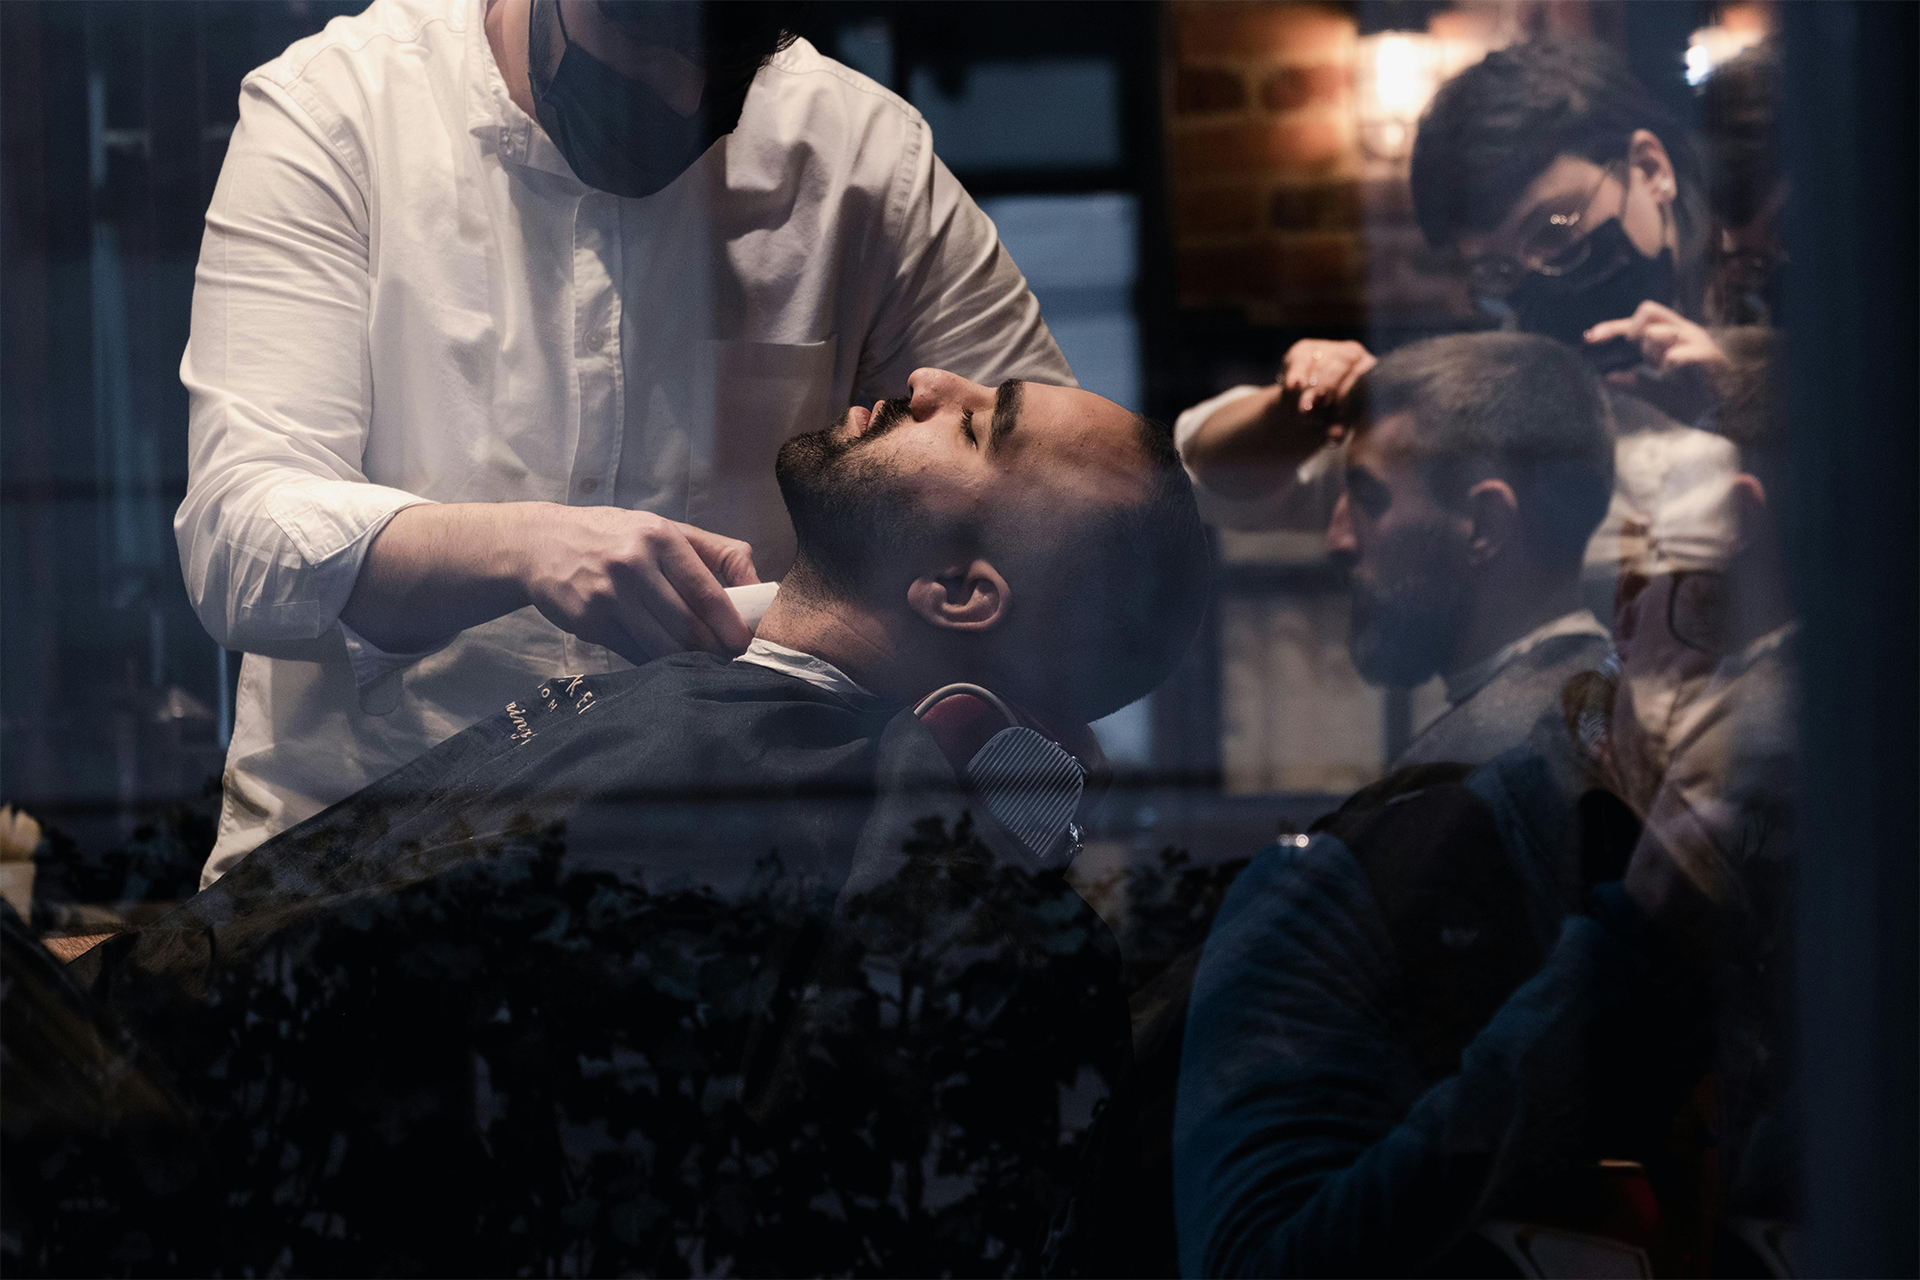
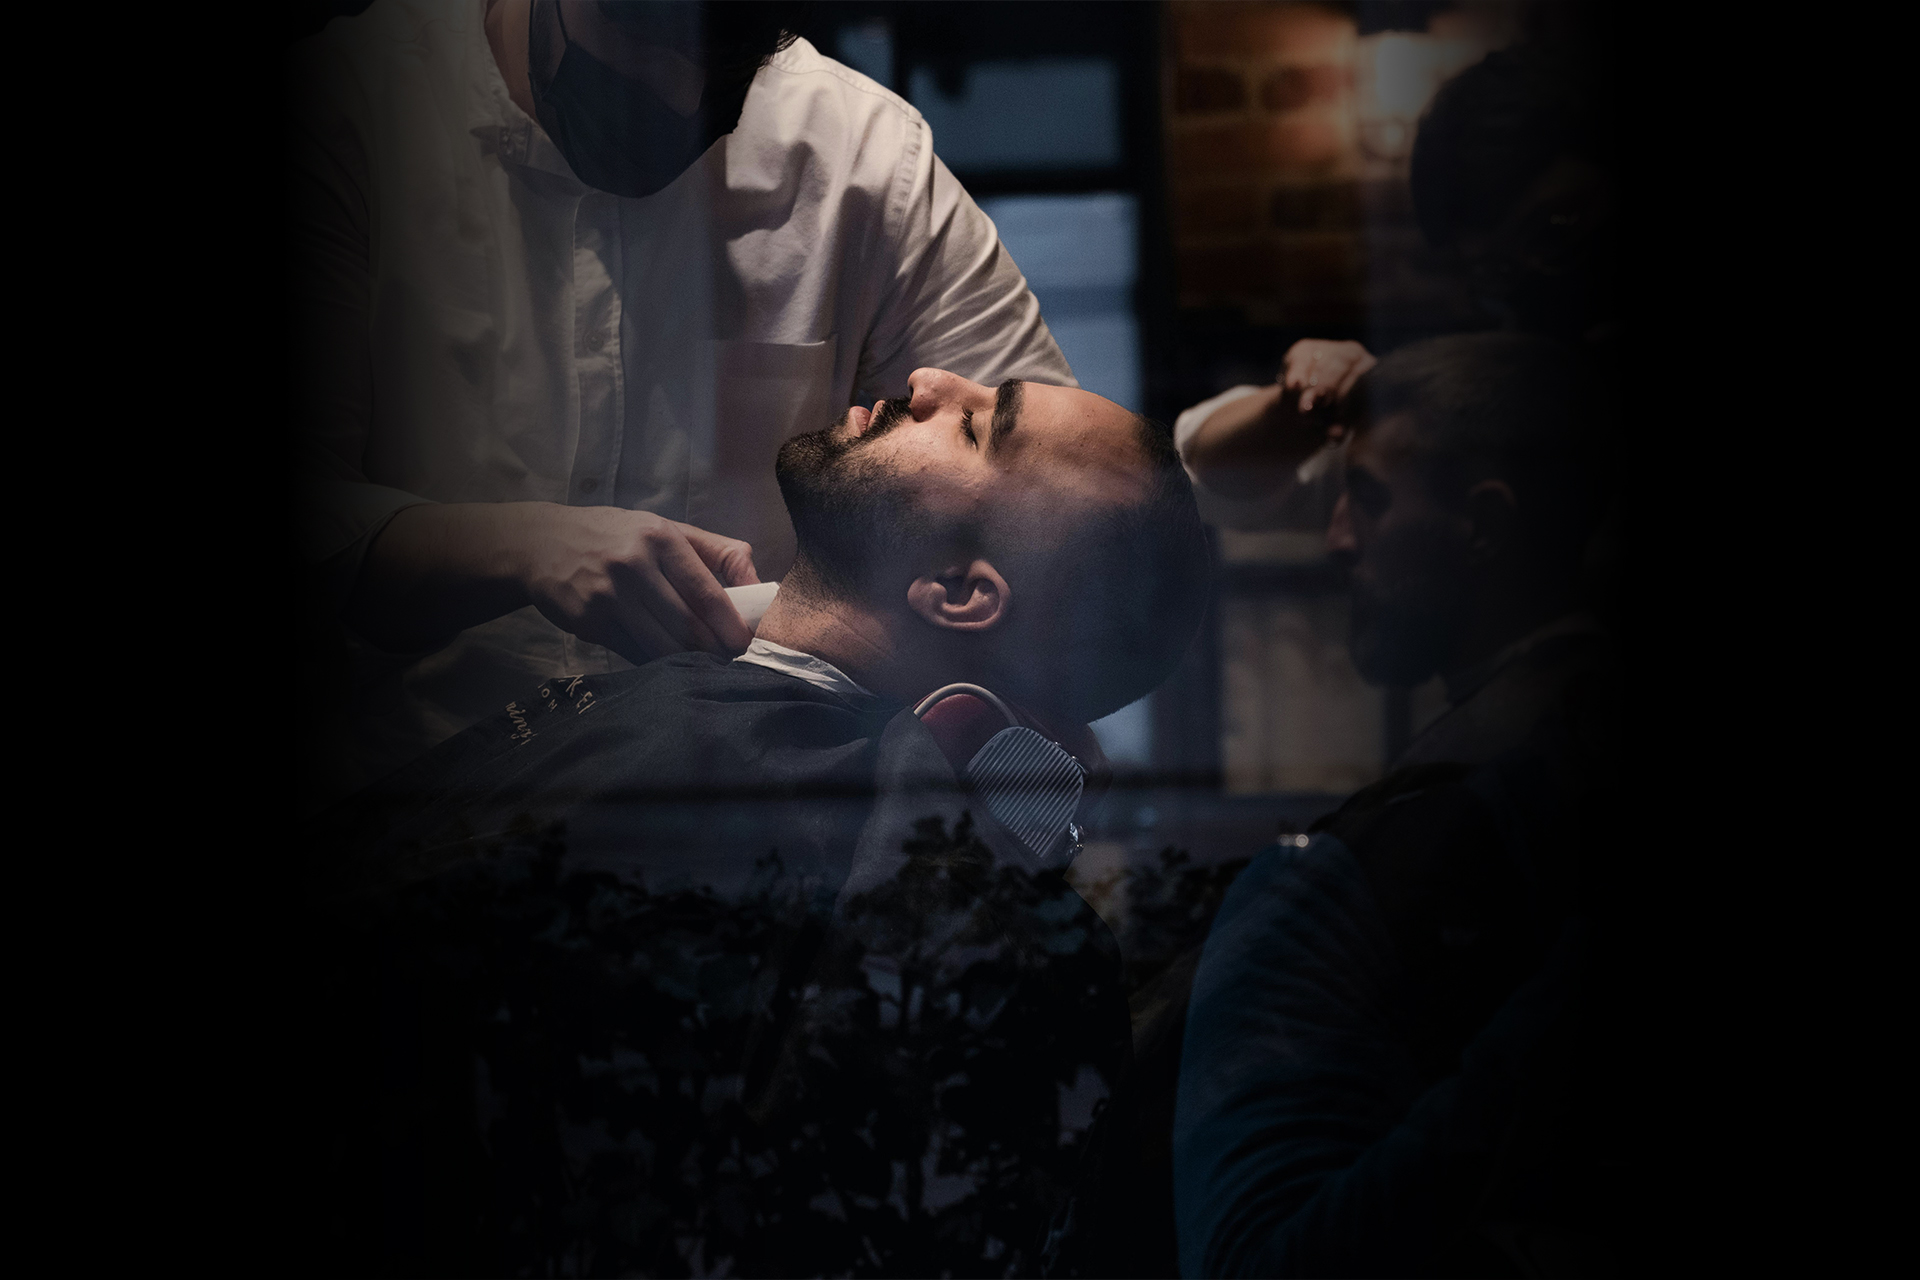
finalizando apresentação

diff --git a/index.html b/index.html
@@ -29,7 +29,44 @@
     <div class="wrapper">
         <main>
             <section id="car-wash" class="module parallax parallax-1">
-                <h1 class="title-1">Car Wash</h1>
+
+                <div>
+                    <form action="">
+                        <h3>Agendar</h3>
+                        <input type="text" placeholder="Nome">
+                        <input type="text" placeholder="Carro">
+                        <label>
+                            <input class="check" type="checkbox" />
+                            Lavagem rápida
+                        </label>
+                        <label>
+                            <input class="check" type="checkbox" />
+                            Lavagem completa
+                        </label>
+                        <input type="date">
+                    </form>
+                </div>
+
+                <div>
+                    <h1 class="title-1">Car Wash</h1>
+                </div>
+
+                <div class="info">
+                    <h3>Bem-vindo!</h3>
+
+                    <p>Oferecemos uma lavagem rápida e de qualidade para o seu carro, com serviços como:</p>
+
+                    <ul>
+                        <li>Lavagem externa e interna</li>
+                        <li>Polimento e enceramento</li>
+                        <li>Aspiração e limpeza de estofados</li>
+                    </ul>
+
+                    <p>Nossa equipe é treinada para garantir um atendimento eficiente e resultados excelentes.</p>
+
+                    <p>Seu carro limpo em pouco tempo!</p>
+                </div>
+
             </section>
 
             <section class="module content">
@@ -41,7 +78,44 @@
             </section>
 
             <section id="barber" class="module parallax parallax-2">
-                <h1 class="title-2">Barber</h1>
+
+                <div class="info">
+                    <h3>Bem-vindo!</h3>
+
+                    <p>Oferecemos cortes de cabelo, cuidados com a barba e tratamentos capilares em um ambiente moderno
+                        e acolhedor.</p>
+
+                    <ul>
+                        <li>Profissionais qualificados</li>
+                        <li>Atendimento personalizado</li>
+                        <li>Produtos de qualidade</li>
+                    </ul>
+
+                    <p>Nossa equipe é treinada para garantir um atendimento eficiente e resultados excelentes.</p>
+
+                    <p>Seu estilo, nosso cuidado.</p>
+                </div>
+
+                <div>
+                    <h1 class="title-2">Barber</h1>
+                </div>
+
+                <div>
+                    <form action="">
+                        <h3>Agendar</h3>
+                        <input type="text" placeholder="Nome">
+                        <input type="text" placeholder="Carro">
+                        <label>
+                            <input class="check" type="checkbox" />
+                            Cabelo
+                        </label>
+                        <label>
+                            <input class="check" type="checkbox" />
+                            Barba
+                        </label>
+                        <input type="date">
+                    </form>
+                </div>
             </section>
 
             <div class="footer">

diff --git a/style.css b/style.css
@@ -57,6 +57,58 @@ header {
     }
 }
 
+form {
+    display: flex;
+    flex-direction: column;
+    gap: 20px;
+    width: 400px;
+    border: 1px solid #fff;
+    padding: 15px;
+    border-radius: 10px;
+    -webkit-border-radius: 10px;
+    -moz-border-radius: 10px;
+    -ms-border-radius: 10px;
+    -o-border-radius: 10px;
+    z-index: 999;
+    background: #00000075;
+
+    h3 {
+        font-size: 20px;
+        text-align: center;
+        color: #fff;
+    }
+
+    input {
+        width: 100%;
+        height: 40px;
+        padding: 0 15px;
+        z-index: 999;
+        border-radius: 10px;
+        -webkit-border-radius: 10px;
+        -moz-border-radius: 10px;
+        -ms-border-radius: 10px;
+        -o-border-radius: 10px;
+        border: none;
+    }
+
+    label {
+        color: #fff;
+        z-index: 999;
+        display: flex;
+        text-align: left;
+        align-items: center;
+        gap: 20px;
+
+        .check {
+            width: 20px;
+            height: 20px;
+            cursor: pointer;
+            z-index: 999;
+        }
+    }
+
+}
+
 h1 {
     font-weight: 900;
     color: black;
@@ -65,6 +117,40 @@ h1 {
     z-index: 99;
     text-transform: uppercase;
     text-shadow: #fff 0 0 25px;
+}
+
+.info {
+    display: flex;
+    flex-direction: column;
+    gap: 20px;
+    width: 400px;
+    border: 1px solid #fff;
+    padding: 15px;
+    border-radius: 10px;
+    -webkit-border-radius: 10px;
+    -moz-border-radius: 10px;
+    -ms-border-radius: 10px;
+    -o-border-radius: 10px;
+    z-index: 999;
+    background: #00000075;
+
+    h3 {
+        font-size: 20px;
+        text-align: center;
+        color: #fff;
+    }
+
+    p {
+        color: #fff;
+    }
+
+    ul {
+        padding-left: 15px;
+    }
+
+    li {
+        color: #fff;
+    }
 }
 
 .wrapper {
@@ -100,8 +186,8 @@ section.module.content {
 
 section.module.parallax {
     display: flex;
-    flex-direction: column;
-    justify-content: center;
+    align-items: center;
+    justify-content: space-around;
     height: 100vh !important;
     width: 100%;
     position: relative;
@@ -117,7 +203,7 @@ section.module.parallax::after {
     height: 100%;
     width: 100%;
     position: absolute;
-    z-index: 9;
+    z-index: 1;
     background: linear-gradient(to bottom, rgba(0, 0, 0, 0)0, rgba(0, 0, 0, 0)40%, #000 100%);
 }
 
@@ -180,10 +266,12 @@ a img:hover {
 
 section.module.parallax-1 {
     background-image: url(./assets/car-wash.jpg);
+    z-index: 0;
 }
 
 section.module.parallax-2 {
     background-image: url(./assets/barber1.jpg);
+    z-index: 0;
 }
 
 .title-1,
